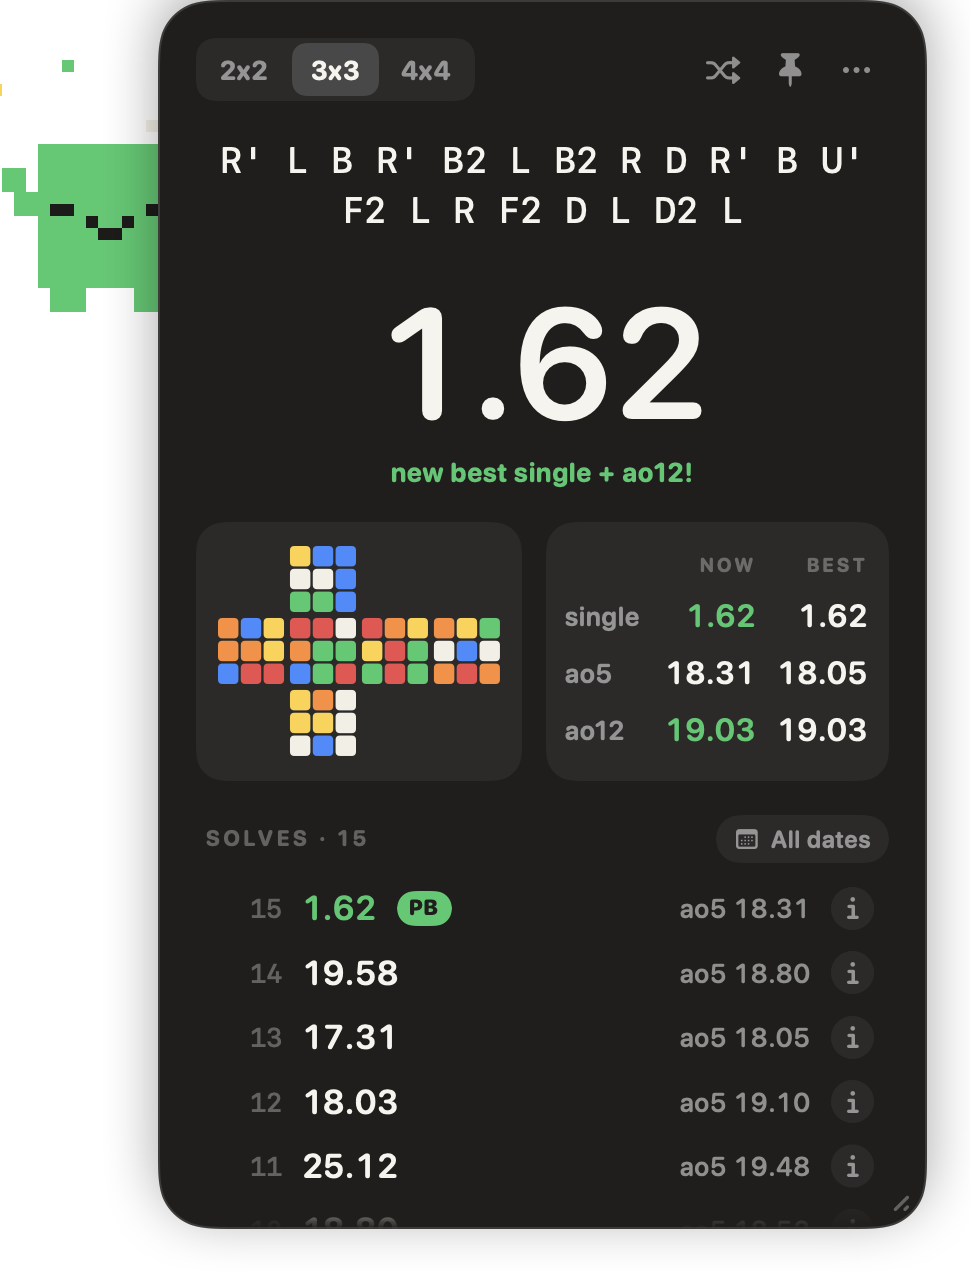
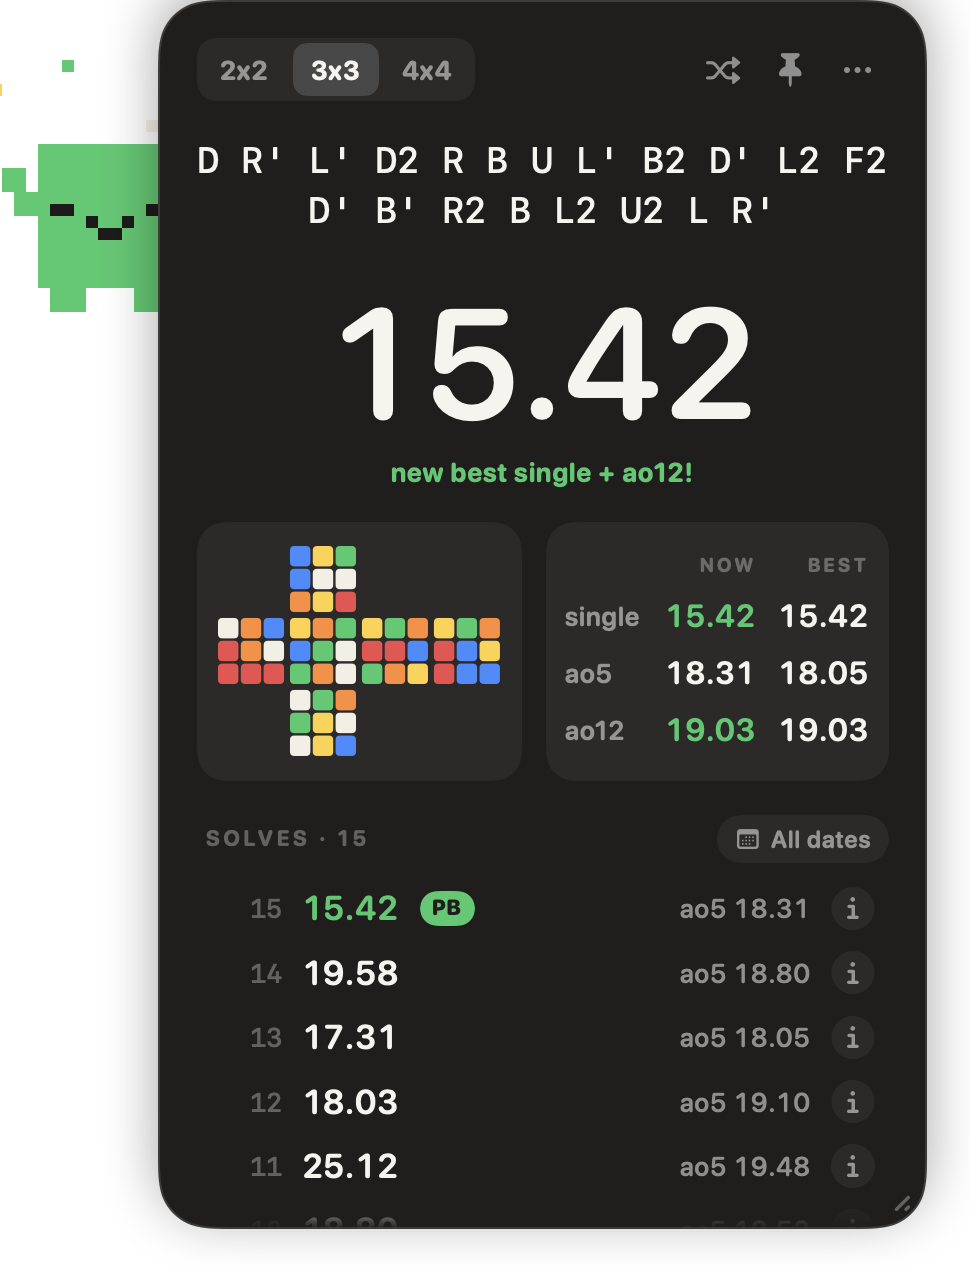
Show a believable solve time in the new-best screenshot
The sample solve in the screenshot run lasted about a second and a half,
which made the README image show a 1.44 3x3 single. The run now backdates
the start so the solve reads 15.42.

diff --git a/Sources/CubeHub/Snapshots.swift b/Sources/CubeHub/Snapshots.swift
@@ -34,12 +34,12 @@ enum Snapshots {
         func pause(_ seconds: TimeInterval) async { try? await Task.sleep(for: .seconds(seconds)) }
         func now() -> TimeInterval { ProcessInfo.processInfo.systemUptime }
         // Posted to the event queue, so input goes through the same handlers as a real keyboard and mouse.
-        func key(_ type: NSEvent.EventType, _ characters: String = " ", code: UInt16 = 49, command: Bool = false, isRepeat: Bool = false) {
+        func key(_ type: NSEvent.EventType, _ characters: String = " ", code: UInt16 = 49, command: Bool = false, isRepeat: Bool = false, at timestamp: TimeInterval? = nil) {
             guard let event = NSEvent.keyEvent(
                 with: type,
                 location: .zero,
                 modifierFlags: command ? .command : [],
-                timestamp: now(),
+                timestamp: timestamp ?? now(),
                 windowNumber: window.windowNumber,
                 context: nil,
                 characters: characters,
@@ -92,11 +92,14 @@ enum Snapshots {
             key(.keyDown, isRepeat: true)
             await pause(0.4)
             capture("3-ready")
-            key(.keyUp)
+            // The timer reads its times off the key events, so backdating the
+            // release makes this a believable solve without a 15 second wait.
+            // It still beats every seeded solve, so it's a new best.
+            let started = now() - 14
+            key(.keyUp, at: started)
             await pause(1.25)
             capture("4-running")
-            // Faster than every seeded solve, so this one is a new best.
-            key(.keyDown)
+            key(.keyDown, at: started + 15.42)
             await pause(0.05)
             key(.keyDown, isRepeat: true)
             key(.keyUp)
